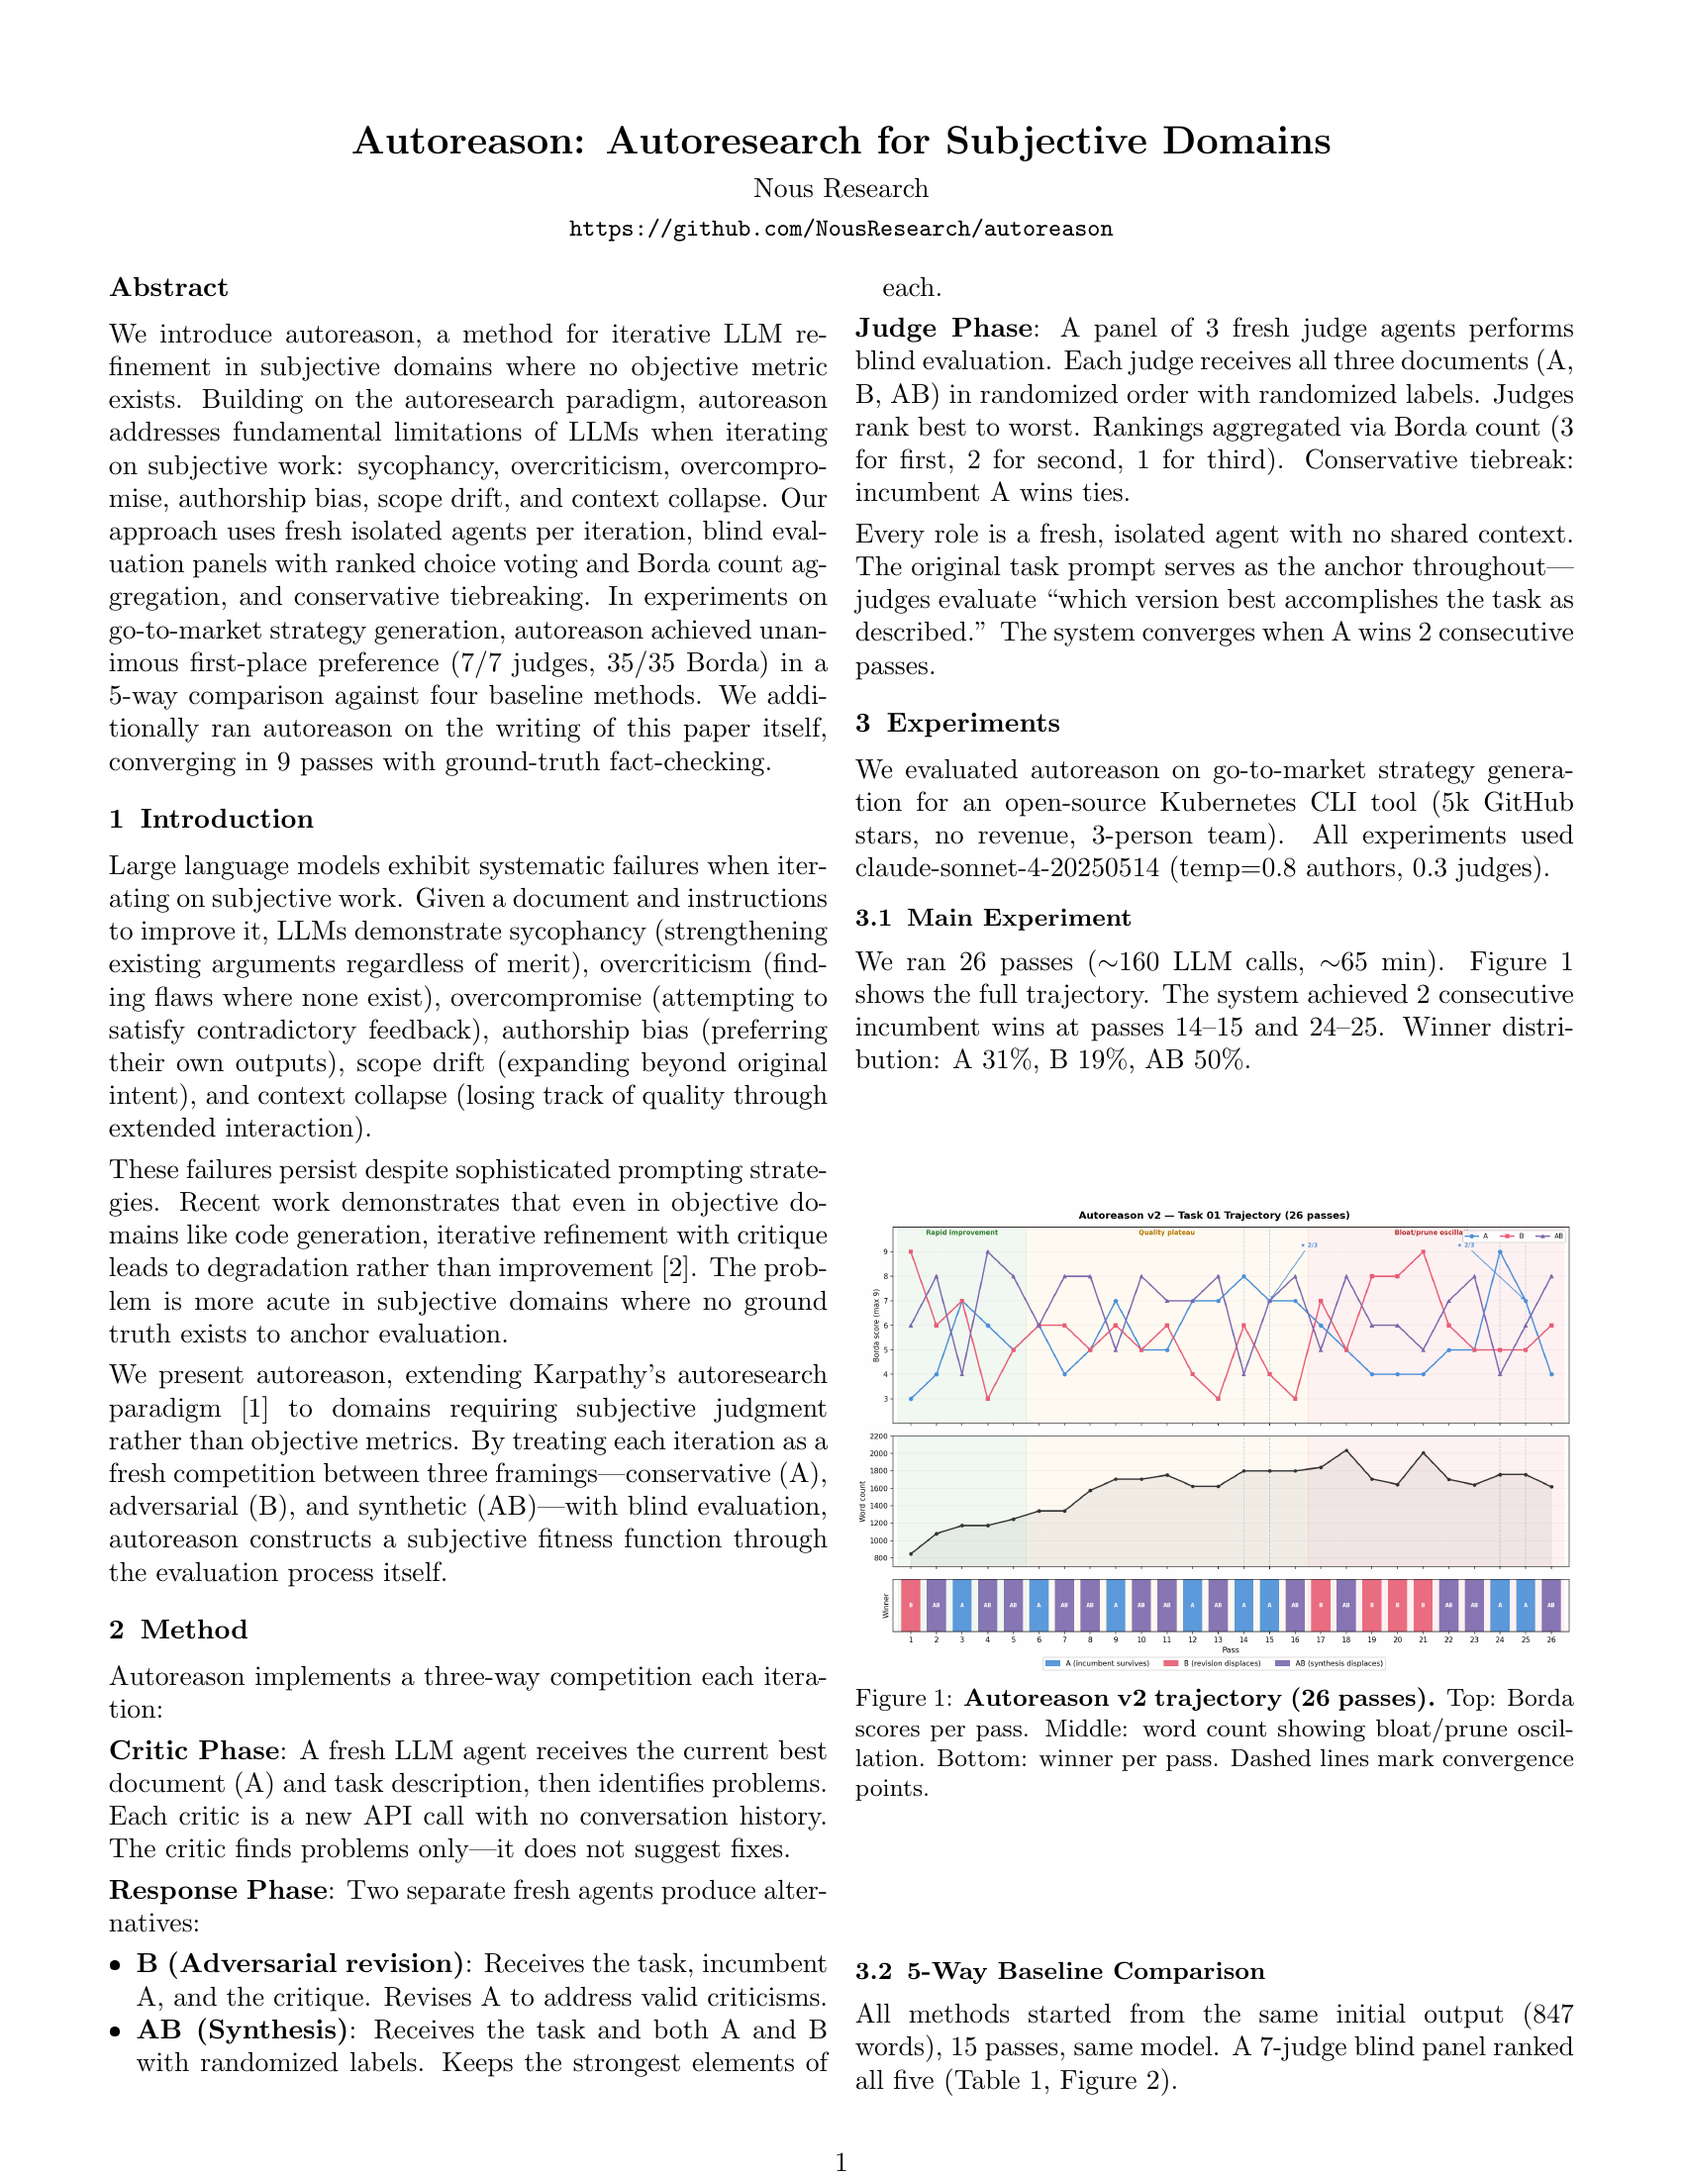
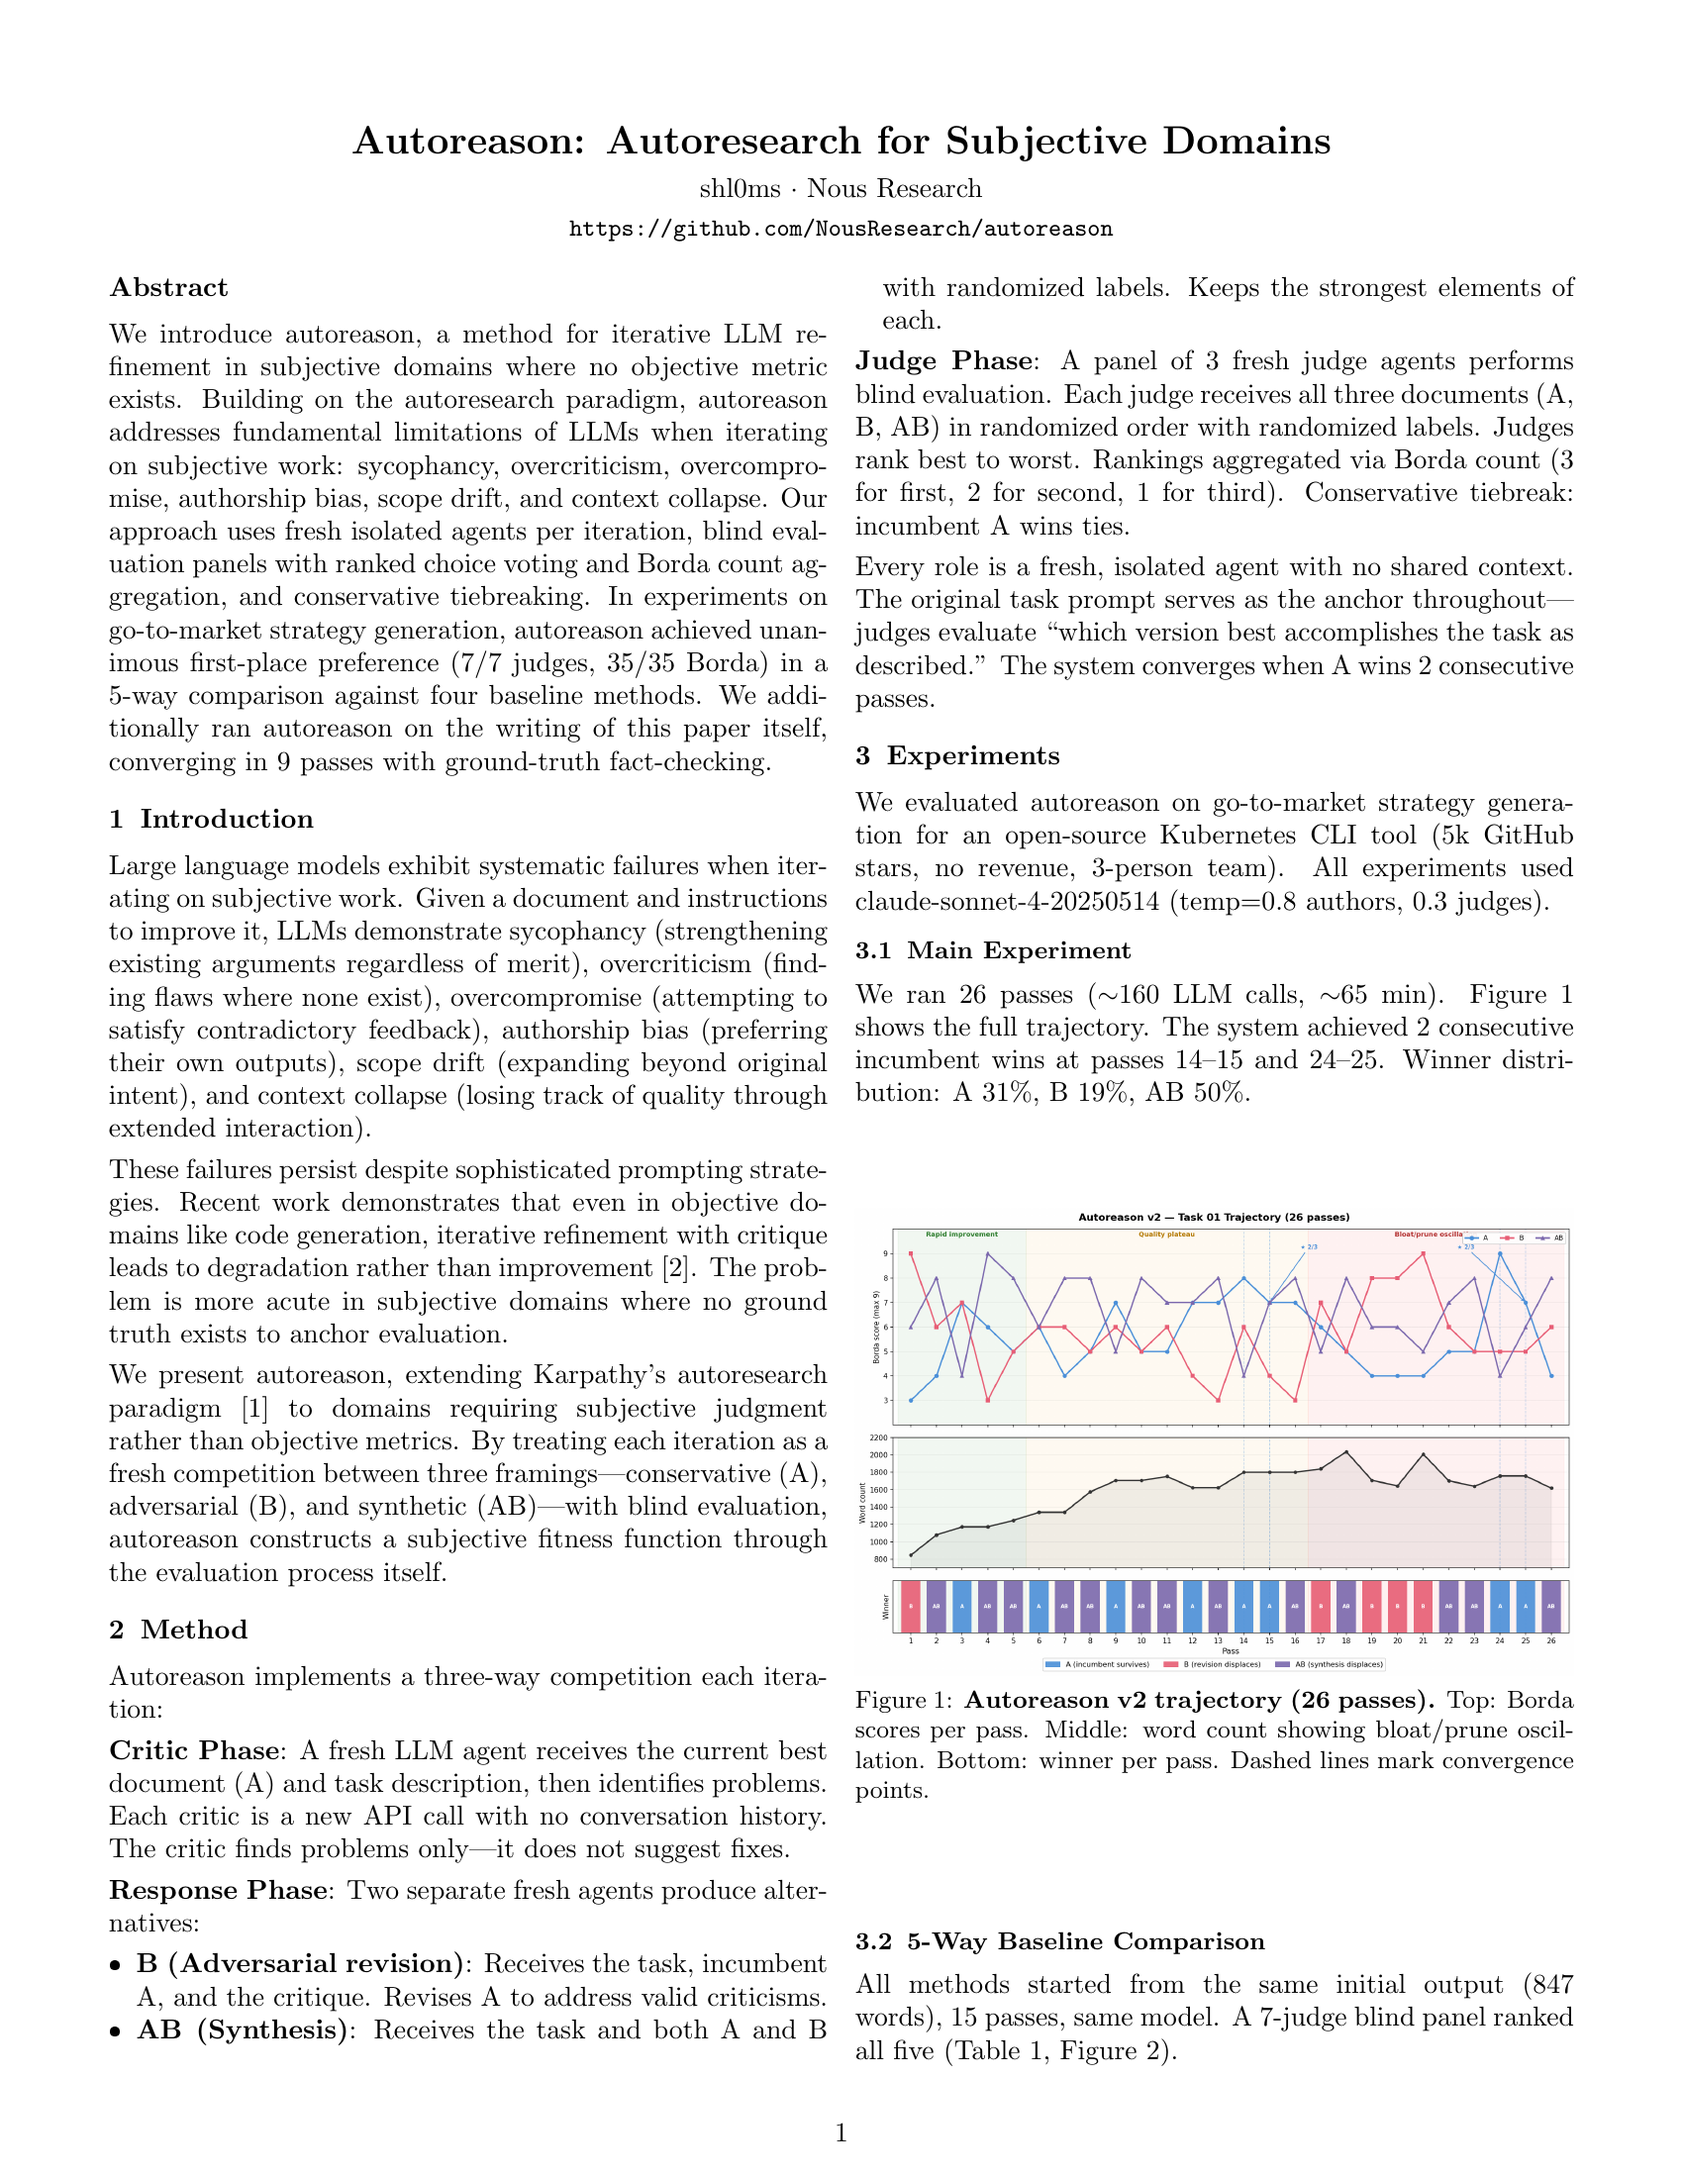
Fix page margins, add author shl0ms

diff --git a/paper/autoreason.tex b/paper/autoreason.tex
@@ -1,5 +1,5 @@
 \documentclass[10pt,twocolumn]{article}
-\usepackage[margin=0.55in,top=0.5in,bottom=0.45in]{geometry}
+\usepackage[margin=0.55in,top=0.5in,bottom=0.6in]{geometry}
 \usepackage{graphicx}
 \usepackage{booktabs}
 \usepackage{enumitem}
@@ -28,7 +28,7 @@
 \twocolumn[{
 \begin{center}
 {\Large\bfseries Autoreason: Autoresearch for Subjective Domains}\\[4pt]
-{\normalsize Nous Research}\\[2pt]
+{\normalsize shl0ms $\cdot$ Nous Research}\\[2pt]
 {\small\url{https://github.com/NousResearch/autoreason}}\\[6pt]
 \end{center}
 }]
